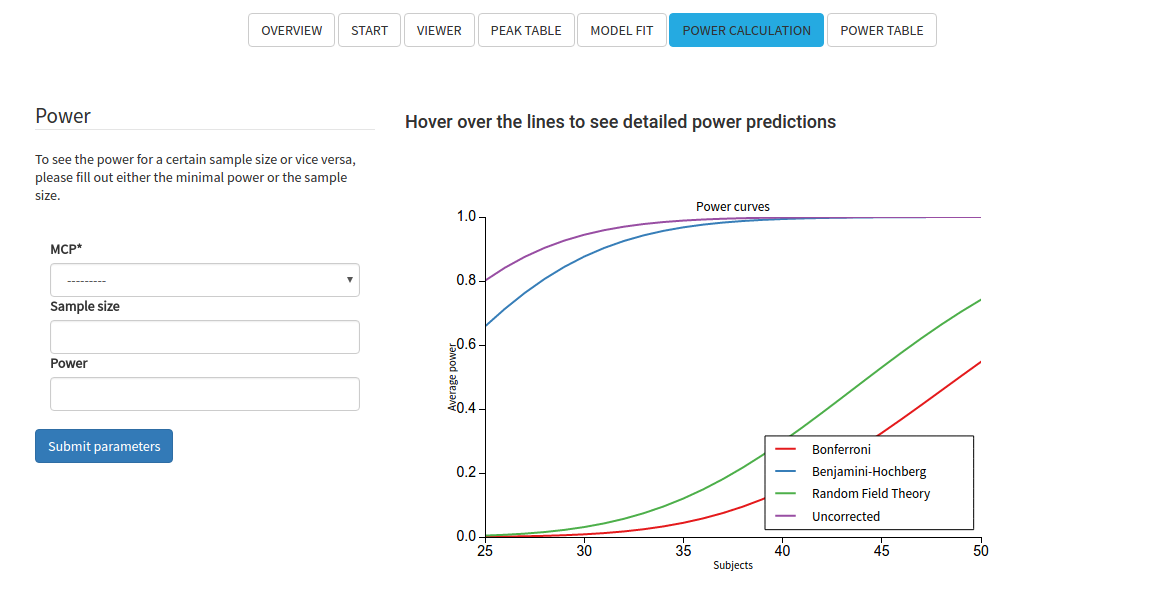
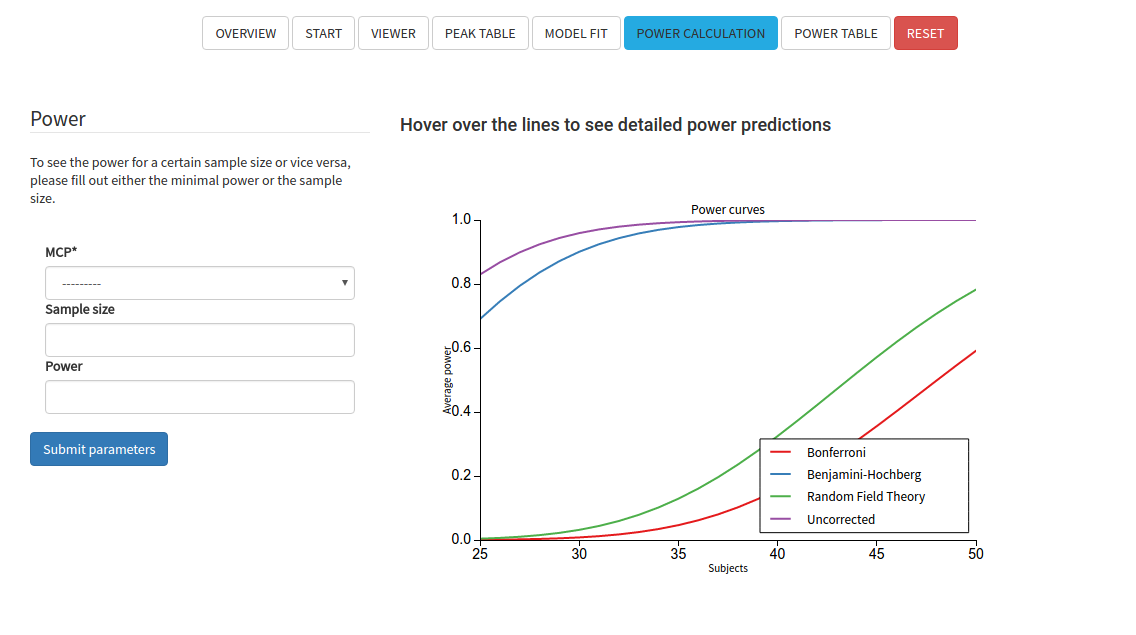
finishing up new tutorial page to close #23

diff --git a/neuropower/templates/main/tutorial.html b/neuropower/templates/main/tutorial.html
@@ -214,15 +214,15 @@
         <p> In this example, when we aim for 80% power with Benjamini-Hochberg error rate control, we'll need a sample size of 19 subjects.</p>
       </div><br>
       <div class="col-md-12">
-        <a href=""><img src='{% static "documentation/StepByStep_6_SampleSize.png" %}' width="100%"/></a>
+        <a href="{% static "documentation/5_power_calculation.png" %}"><img src='{% static "documentation/5_power_calculation.png" %}' width="90%"/></a>
       </div>
 
       <div class="col-md-12">
-        <p>If you have a specific number of subjects and you want to know the power that comes with it, you can specify the sample size field in the form.  In this example, a sample size of 35 subjects with Random Field Theory error rate control results in 84% power.</p>
+        <p>If you have a specific number of subjects and you want to know the power that comes with it, you can specify the sample size field in the form.  In this example, a sample size of 35 subjects with Random Field Theory error rate control results in 96% power.</p>
         <p>If the resulting sample size is larger than 50 (the standard limit of the x-axis), the x-axis will adjust to this limit</p>
       </div><br>
       <div class="col-md-12">
-        <a href=""><img src='{% static "documentation/StepByStep_7_powercalculation.png" %}' width="100%"/></a>
+        <a href="{% static "documentation/5_sample_size.png" %}"><img src='{% static "documentation/5_sample_size.png" %}' width="90%"/></a>
       </div>
 
        <!-- Next and previous buttons -->
@@ -236,13 +236,14 @@
   <div class="panel panel-default hidden" id="step6-content">
     <div class="panel-body">
       <div class="col-md-12">
-        <a href=""><img src='{% static "documentation/StepByStep_8_powertable.png" %}' width="100%"/></a>
-      </div>
-      <div class="col-md-12">
         <p> Finally, this table is the data that is used for the power curves.  You see a overview of all possible sample sizes for the different MCP's and which power these have.</p>
       </div>
-    </div>
-
+      <div class="col-md-12">
+        <a href="{% static "documentation/6_power_table.png" %}"><img src='{% static "documentation/6_power_table.png" %}' width="100%"/></a>
+      </div>
+      <div class="col-md-12">
+      </div>
+    </div><br><br>
        <!-- Next and previous buttons -->
        <a class="btn btn-primary btn-lg step-button" text="Power Analysis" id="previous5" style="float:right">Previous: Power Analysis</a>
 

diff --git a/neuropower/static/css/style.css b/neuropower/static/css/style.css
@@ -140,7 +140,7 @@ body {
 
 #progressbar {
   padding-top:25px;
-  padding-left:50px;
+  padding-left:35px;
   text-align: center !important;
   margin-bottom: 30px !important;
   text-transform: uppercase;
